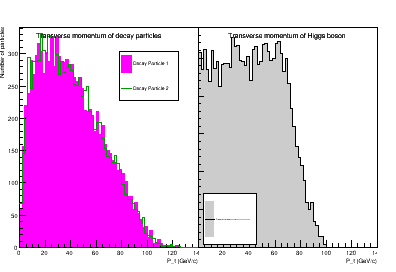
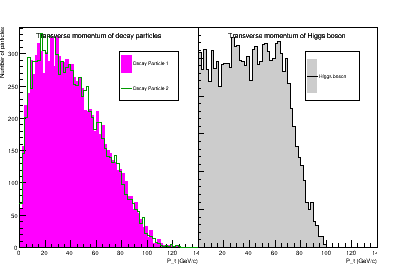
Zad 5 desna legenda

Changed region(s): [[0.5152, 0.7059, 0.6667, 0.9118], [0.7576, 0.1765, 0.9091, 0.3824]]

diff --git a/Vjezbe_5/Analyzer.cpp b/Vjezbe_5/Analyzer.cpp
@@ -17,13 +17,14 @@ void Analyzer::PlotHistogram()
     TH1F *hH     = new TH1F("hH", "Transverse P Higgs", 70, 0., 140.);
     TFile *fout  = TFile::Open("H_TransP_12+H_fin.root", "RECREATE");
     TLegend *leg = new TLegend(0.6, 0.7, 0.9, 0.9); // constructor takes coord of lower left and upper right corners
-
+    TLegend *leg2= new TLegend(0.6, 0.7, 0.9, 0.9); 
 
     c.Divide(2, 1, 0.01, 0);  //divide canvas into 2 sub-pads
     gStyle->SetOptStat(0);       //remove statistics boxes
     
     this->Loop(h1, h2, hH); // Punjenje je u metodi Loop(TH1F* h...)
     
+    /**************** LIJEVI PANEL ******************/
     c.cd(1); //set sub-pad 1 as current pad (pointer gPad) DRAW() HERE!
     h1->GetXaxis()->SetTitle("P_t (GeV/c)");
     h1->GetYaxis()->SetTitle("Number of particles");
@@ -42,7 +43,7 @@ void Analyzer::PlotHistogram()
     //leg->AddEntry(hH, "Higgs boson", "l");
     leg->Draw();
 
-    /************************************************/
+    /***************** DESNI PANEL ******************/
     c.cd(2); // SAD CRTAJ NA sub-pad 2
     hH->GetXaxis()->SetTitle("P_t (GeV/c)");
     //hH->GetYaxis()->SetTitle("Number of particles");
@@ -51,13 +52,12 @@ void Analyzer::PlotHistogram()
     hH->SetTitle("Transverse momentum of Higgs boson");
     hH->Draw();
 
-    //Draw legend on current pad (gPad)!
-    //c.cd();
-    //leg->Clear(); //ocisti postojecu legendu
-    //leg->SetHeader("Higgs boson decay simulation", "C");
-    //leg->AddEntry(hH, "Higgs boson", "lf");
-    //leg->Draw();
-    gPad->BuildLegend(); // napravi legendu na drugom sub-padu (c_2 automatsko ime)
+    //Draw legend on current pad (gPad)! Moze i preko drugog pointera na TLegend
+    //gPad->BuildLegend(0.6, 0.7, 0.9, 0.9, "", "f"); //napravi legendu na drugom sub-padu (c_2 automatsko ime)
+                                                      //treba prominit natpis kraj simbola
+    leg2->AddEntry(hH, "Higgs boson", "lf");
+    leg2->Draw();
+    /***********************************************/
 
     c.Print("H_TransP_12+H_fin.png");
     c.SaveAs("H_TransP_12+H_fin.pdf");
@@ -68,6 +68,7 @@ void Analyzer::PlotHistogram()
     delete hH;
     delete fout;
     delete leg;
+    delete leg2;
 }
 
 void Analyzer::Loop()
